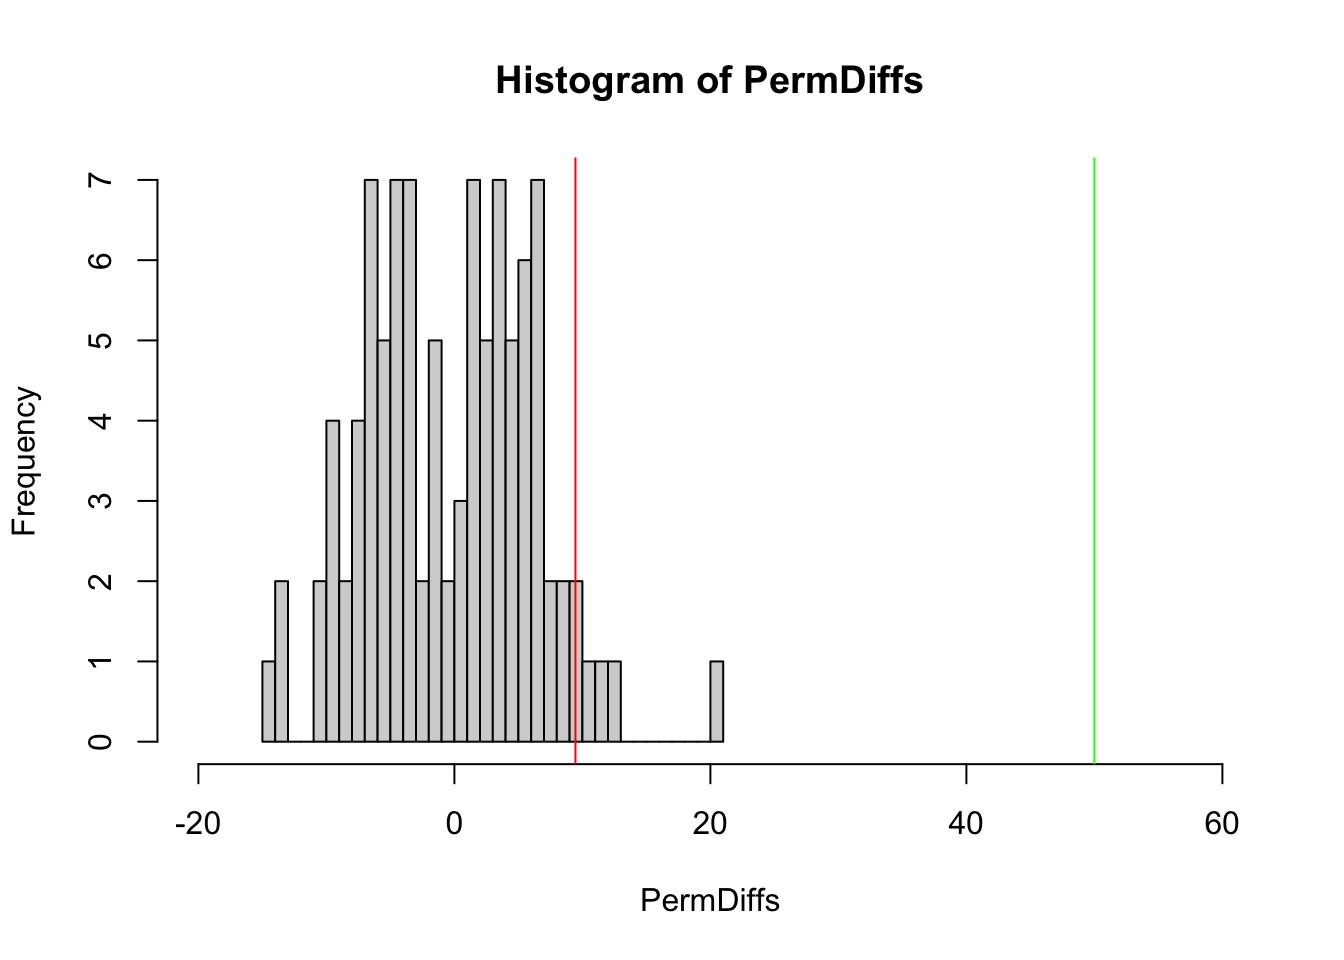
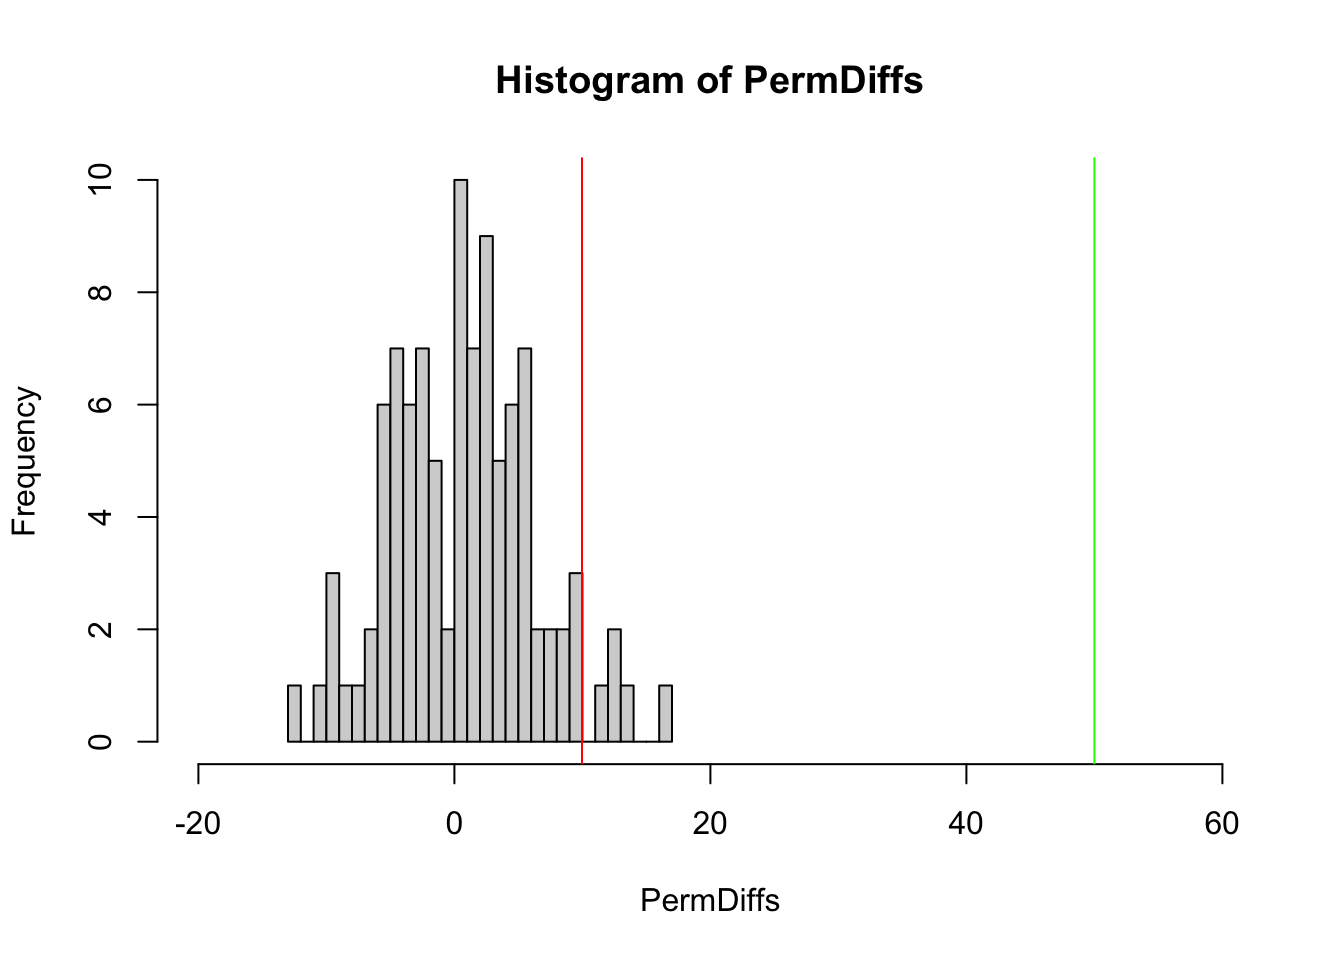
Muokattu index.qmd tiedostoa

diff --git a/docs/R_komentoja/DatasetinLuominen.html b/docs/R_komentoja/DatasetinLuominen.html
@@ -2265,8 +2265,8 @@ globalThis.qwebrCreateMonacoEditorInstance = function (cellData) {
 <span id="cb3-6"><a href="#cb3-6" aria-hidden="true" tabindex="-1"></a><span class="fu">aggregate</span>(arvo <span class="sc">~</span> ryhmä, <span class="at">data =</span> data, <span class="at">FUN =</span> mean)</span></code></pre></div><button title="Copy to Clipboard" class="code-copy-button"><i class="bi"></i></button></div>
 <div class="cell-output cell-output-stdout">
 <pre><code>  ryhmä     arvo
-1     1 1.061699
-2     2 3.000933</code></pre>
+1     1 1.006871
+2     2 3.031231</code></pre>
 </div>
 </div>
 <ul>
@@ -2318,8 +2318,8 @@ globalThis.qwebrCreateMonacoEditorInstance = function (cellData) {
 <div class="cell">
 <div class="code-copy-outer-scaffold"><div class="sourceCode cell-code" id="cb9"><pre class="sourceCode r code-with-copy"><code class="sourceCode r"><span id="cb9-1"><a href="#cb9-1" aria-hidden="true" tabindex="-1"></a><span class="fu">rnorm</span>(<span class="dv">10</span>, <span class="dv">6</span>, <span class="dv">2</span>) </span></code></pre></div><button title="Copy to Clipboard" class="code-copy-button"><i class="bi"></i></button></div>
 <div class="cell-output cell-output-stdout">
-<pre><code> [1] 10.5524808  6.8768103  8.0157776  3.6341825  4.1376963  0.2342022
- [7]  5.6025426  6.1505759  8.9834240  7.4283837</code></pre>
+<pre><code> [1] 3.553110 6.865976 6.805971 8.313006 4.206357 6.330712 8.088962 5.817785
+ [9] 3.953584 3.656465</code></pre>
 </div>
 </div>
 <p>Tarkistetaan, että keskiarvo ja keskihajonta pitävät paikkansa.</p>
@@ -2339,8 +2339,8 @@ globalThis.qwebrCreateMonacoEditorInstance = function (cellData) {
 <span id="cb11-13"><a href="#cb11-13" aria-hidden="true" tabindex="-1"></a><span class="fu">data.frame</span>(<span class="at">N10 =</span> <span class="fu">c</span>(m1,sd1), <span class="at">N100 =</span> <span class="fu">c</span>(m2,sd2), <span class="at">N1000 =</span> <span class="fu">c</span>(m3, sd3), <span class="at">row.names =</span> RivNimet)</span></code></pre></div><button title="Copy to Clipboard" class="code-copy-button"><i class="bi"></i></button></div>
 <div class="cell-output cell-output-stdout">
 <pre><code>                  N10     N100    N1000
-Keskiarvo    6.563249 6.172788 5.926143
-Keskihajonta 1.767731 2.098488 2.063797</code></pre>
+Keskiarvo    6.468447 6.018972 5.951577
+Keskihajonta 1.848323 1.806534 2.014721</code></pre>
 </div>
 </div>
 <p>Isommalla n:llä näyttäisi osuvan vielä tarkemmin kohdalleen.</p>

diff --git a/docs/R_kurssi/Osa03.html b/docs/R_kurssi/Osa03.html
@@ -599,16 +599,16 @@ div.csl-indent {
 <span id="cb17-4"><a href="#cb17-4" aria-hidden="true" tabindex="-1"></a></span>
 <span id="cb17-5"><a href="#cb17-5" aria-hidden="true" tabindex="-1"></a><span class="fu">sort</span>(PermDiffs)</span></code></pre></div><button title="Copy to Clipboard" class="code-copy-button"><i class="bi"></i></button></div>
 <div class="cell-output cell-output-stdout">
-<pre><code>  [1] -14.24 -13.40 -13.28 -10.48 -10.32  -9.68  -9.24  -9.12  -9.04  -8.52
- [11]  -8.44  -7.96  -7.68  -7.60  -7.40  -6.96  -6.64  -6.44  -6.40  -6.16
- [21]  -6.16  -6.00  -5.92  -5.68  -5.68  -5.40  -5.24  -4.96  -4.72  -4.68
- [31]  -4.24  -4.12  -4.12  -4.08  -3.84  -3.76  -3.60  -3.56  -3.32  -3.24
- [41]  -3.00  -2.28  -2.24  -1.84  -1.80  -1.56  -1.12  -1.08  -0.64  -0.28
- [51]   0.12   0.68   0.76   1.16   1.28   1.40   1.56   1.68   1.80   1.96
- [61]   2.24   2.36   2.56   2.76   2.76   3.16   3.20   3.32   3.36   3.56
- [71]   3.60   4.00   4.08   4.24   4.32   4.72   4.88   5.24   5.32   5.44
- [81]   5.48   5.48   5.72   6.04   6.16   6.28   6.60   6.72   6.76   6.92
- [91]   7.56   7.84   8.52   8.56   9.44   9.76  10.96  11.64  12.72  20.64</code></pre>
+<pre><code>  [1] -12.36 -10.92  -9.84  -9.84  -9.72  -8.12  -7.44  -6.52  -6.24  -5.92
+ [11]  -5.64  -5.60  -5.56  -5.32  -5.08  -4.84  -4.72  -4.60  -4.52  -4.20
+ [21]  -4.12  -4.08  -3.96  -3.96  -3.52  -3.40  -3.24  -3.04  -2.92  -2.88
+ [31]  -2.84  -2.80  -2.72  -2.28  -2.24  -1.88  -1.84  -1.60  -1.36  -1.16
+ [41]  -0.40  -0.04   0.12   0.24   0.32   0.44   0.48   0.52   0.52   0.60
+ [51]   0.68   0.72   1.08   1.16   1.28   1.36   1.64   1.72   1.84   2.08
+ [61]   2.12   2.32   2.44   2.60   2.68   2.84   2.96   3.00   3.20   3.36
+ [71]   3.52   3.72   3.88   4.24   4.36   4.64   4.64   4.76   4.76   5.12
+ [81]   5.28   5.52   5.56   5.56   5.56   5.64   6.28   7.00   7.60   7.76
+ [91]   8.56   8.92   9.76   9.80   9.88  11.64  12.08  12.20  13.72  17.00</code></pre>
 </div>
 <div class="code-copy-outer-scaffold"><div class="sourceCode cell-code" id="cb19"><pre class="sourceCode r code-with-copy"><code class="sourceCode r"><span id="cb19-1"><a href="#cb19-1" aria-hidden="true" tabindex="-1"></a><span class="co"># tässä tapauksessa kaikki permutaatioiden keskiarvoerot jäävät todellisen keskiarvoeron alle eli sen </span></span>
 <span id="cb19-2"><a href="#cb19-2" aria-hidden="true" tabindex="-1"></a>  <span class="co"># mukaan ero on hyvinkin merkitsevä </span></span>

diff --git a/docs/R_kurssi/Osa02.html b/docs/R_kurssi/Osa02.html
@@ -382,19 +382,19 @@ pre > code.sourceCode > span > a:first-child::before { text-decoration: underlin
 <span id="cb1-7"><a href="#cb1-7" aria-hidden="true" tabindex="-1"></a><span class="fu">aggregate</span>(Age <span class="sc">~</span> Group, <span class="at">data =</span> data, <span class="at">FUN =</span> mean)</span></code></pre></div><button title="Copy to Clipboard" class="code-copy-button"><i class="bi"></i></button></div>
 <div class="cell-output cell-output-stdout">
 <pre><code>   Group   Age
-1 GroupA 44.08
-2 GroupB 44.67
-3 GroupC 42.60</code></pre>
+1 GroupA 39.74
+2 GroupB 39.49
+3 GroupC 42.12</code></pre>
 </div>
 <div class="code-copy-outer-scaffold"><div class="sourceCode cell-code" id="cb3"><pre class="sourceCode r code-with-copy"><code class="sourceCode r"><span id="cb3-1"><a href="#cb3-1" aria-hidden="true" tabindex="-1"></a><span class="fu">quantile</span>(data<span class="sc">$</span>WM, <span class="at">probs =</span> <span class="fu">seq</span>(<span class="dv">0</span>, <span class="dv">1</span>, <span class="fl">0.9</span>))</span></code></pre></div><button title="Copy to Clipboard" class="code-copy-button"><i class="bi"></i></button></div>
 <div class="cell-output cell-output-stdout">
-<pre><code> 0% 90% 
-  1  89 </code></pre>
+<pre><code>  0%  90% 
+ 1.0 90.1 </code></pre>
 </div>
 <div class="code-copy-outer-scaffold"><div class="sourceCode cell-code" id="cb5"><pre class="sourceCode r code-with-copy"><code class="sourceCode r"><span id="cb5-1"><a href="#cb5-1" aria-hidden="true" tabindex="-1"></a><span class="fu">apply</span>(data[,<span class="dv">2</span><span class="sc">:</span><span class="dv">3</span>], <span class="dv">2</span>, mean) </span></code></pre></div><button title="Copy to Clipboard" class="code-copy-button"><i class="bi"></i></button></div>
 <div class="cell-output cell-output-stdout">
 <pre><code>     Age       WM 
-43.78333 52.78000 </code></pre>
+40.45000 51.67667 </code></pre>
 </div>
 </div>
 <p>Aggregate funktiossa ensiksi valitaan numeerinen freimi datasetistä, josta keskiarvo (tai jokin muu) lasketaan, sitten ~ merkin jälkeen # ryhmittelevä tekijä, eli se minkä mukaan data jaotellaan. # data = kohtaan datasetti, # FUN = kohtaan käytettävä funktio, jota käytetään.</p>

diff --git a/docs/index.html b/docs/index.html
@@ -337,8 +337,9 @@ ul.task-list li input[type="checkbox"] {
 
 <section id="oppimispäiväkirjan-esittely" class="level1 unnumbered">
 <h1 class="unnumbered">Oppimispäiväkirjan esittely</h1>
-<p>Kirja sisältää</p>
-<p>Suosittelen lukemaan kirjaa verkkosivuversiona osoitteesta: <a href="https://aaropoh.github.io/LearningDiary/" class="uri">https://aaropoh.github.io/LearningDiary/</a></p>
+<p>Kirja sisältää ominaisuuksia, jotka eivät pdf versiossa toimi kunnolla, kuten lukijan ajettavissa olevia skriptejä sekä piilotettavia koodilohkoja. Siitä syystä ehdottomasti suosittelen lukemaan kirjaa verkkosivuversiona osoitteesta: <a href="https://aaropoh.github.io/LearningDiary/" class="uri">https://aaropoh.github.io/LearningDiary/</a></p>
+<p><br></p>
+<p>Kirja koostuu pääasiassa muistiinpanoista liittyen Ohjelmoinnin perusteet R-ohjelmointikielellä kurssiin. Osittain kirja ei ole välttämättä erityisen kaunista luettavaa, koska asioita on kirjattu suhteellisen paljon muistiinpanotyylillä luettelemalla. Syy sille on se, että lähestyin kirjan tekemistä siitä näkökulmasta, että haluan kirjani toimivan jatkossa hakuteoksena itselleni. En niinkään siis keskittynyt tekstin viimeistelyyn tai kirjan ulkoasuun, vaan enemmänkin siihen, että olen saanut ylös mahdollisimman paljon oppimaani, jotta voin myöhemmin käyttää kirjaa apunani koodaamiseen, datan pyörittelyyn ja tilastomenetelmiin liittyvissä tehtävissä. Ajatuksenani on myös jatkaa kirjan täydentämistä seuraavillakin aiheeseen liittyvillä kursseilla.</p>
 
 
 </section>

diff --git a/docs/R_komentoja/Tilastotesteja.html b/docs/R_komentoja/Tilastotesteja.html
@@ -396,13 +396,13 @@ div.csl-indent {
     Welch Two Sample t-test
 
 data:  R1 and R2
-t = -4.0262, df = 97.543, p-value = 0.0001121
+t = -4.1416, df = 92.447, p-value = 7.617e-05
 alternative hypothesis: true difference in means is not equal to 0
 95 percent confidence interval:
- -1.1857241 -0.4027467
+ -1.3935794 -0.4902597
 sample estimates:
-mean of x mean of y 
-0.3254905 1.1197258 </code></pre>
+  mean of x   mean of y 
+-0.09753465  0.84438487 </code></pre>
 </div>
 </div>
 <p>Mitä tietoja testi näyttää</p>
@@ -431,13 +431,13 @@ mean of x mean of y
     Welch Two Sample t-test
 
 data:  arvo by ryhmä
-t = -5.293, df = 97.567, p-value = 7.411e-07
+t = -5.0285, df = 97.994, p-value = 2.234e-06
 alternative hypothesis: true difference in means between group 1 and group 2 is not equal to 0
 95 percent confidence interval:
- -1.529589 -0.695357
+ -1.2851739 -0.5578404
 sample estimates:
 mean in group 1 mean in group 2 
-     -0.1577740       0.9546991 </code></pre>
+      0.1099649       1.0314720 </code></pre>
 </div>
 </div>
 </section>
